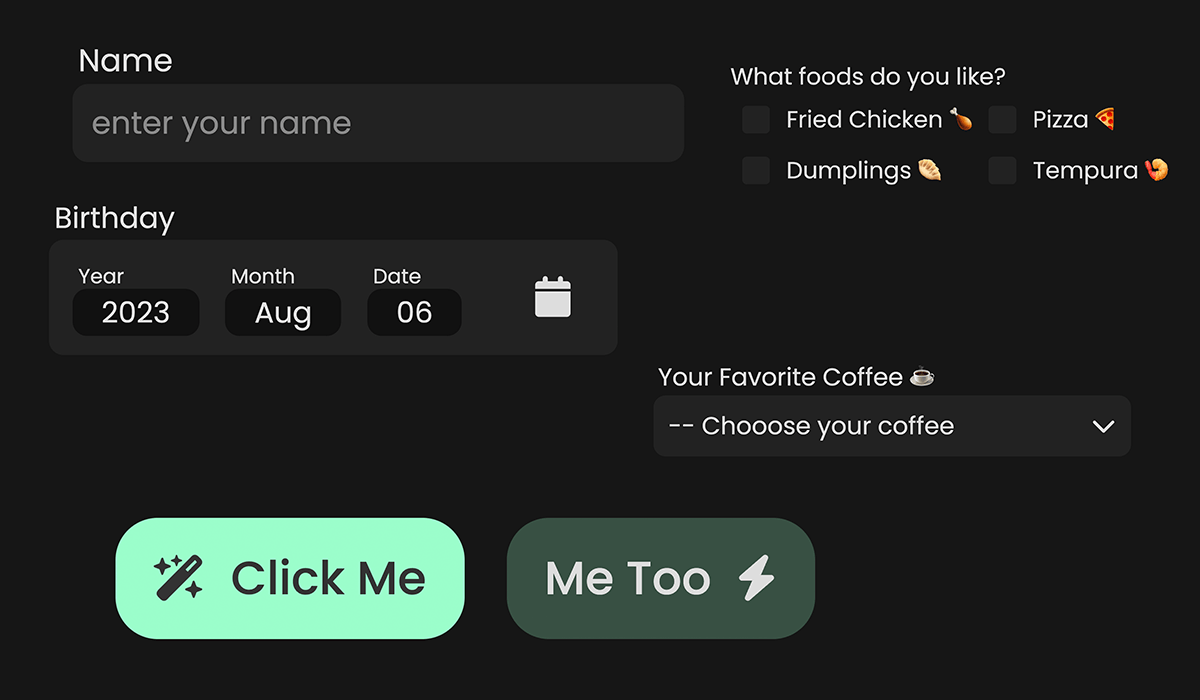
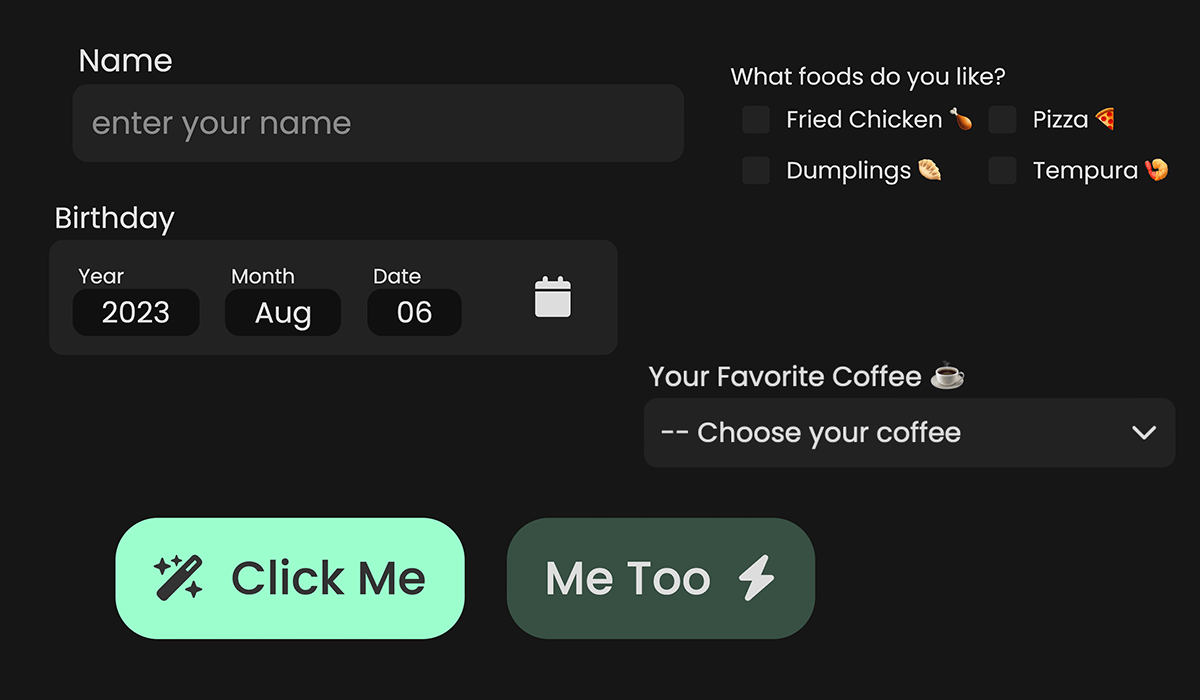
bug fixes

Changed region(s): [[0.5242, 0.51, 0.8017, 0.57], [0.555, 0.6, 0.8017, 0.63], [0.8942, 0.6, 0.9558, 0.63]]

diff --git a/components/Hero/index.js b/components/Hero/index.js
@@ -117,7 +117,7 @@ export default function Hero() {
               value={coffee}
               onChange={(i) => setCoffee(i)}
               domName='Your Favorite Coffee ☕'
-              defaultValue='-- Chooose your coffee'
+              defaultValue='-- Choose your coffee'
               values={[
                 {
                   key: 'espresso',
